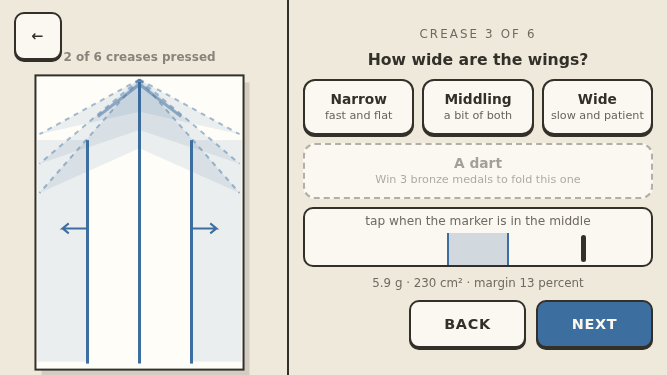
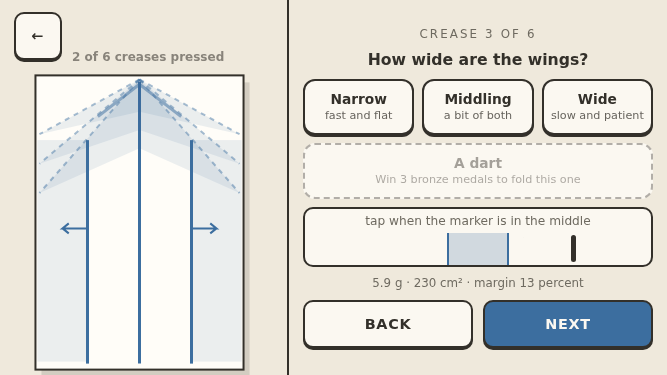
Airworthy review: the landscape row had a 106 px hole its gate could not see
Reviewing 9723b1a2. The one line fix stands, all three of the builder's
mutations re-planted and watched red, fence clean, ten of ten green.

Found by the builder's own third mutation: a 220 px squeeze went red in
LANDSCAPE too, so the portrait reserve was applied there. The override
#shopRow{padding-left:0} sat in the landscape media block above the base
rule; same specificity, later wins, so it was dead and the landscape row
carried a 106 px hole (BACK at 409 while the chips start at 303, visible in
the regenerated p2-workshop-wide shot). The landscape line now lives under
the base rule. New layout assertion, landscape only: BACK's left edge is
the column's content edge (border plus padding) within 1 px. Watched red on
the committed CSS, corrected for the 2 px border-left it first forgot,
green, re-planted red with 106 back on the landscape line, green.

Same shot: the canvas counter's left end sat on the top left arrow in
landscape; it keeps 10 px clear of the button now, portrait unchanged, no
gate, verified by eye on the reshot.

Stamp 20260908b in six places. tools/check.js: ALL GATES PASSED, ten of ten.

Claude-Session: https://claude.ai/code/session_01MzMxmCZuHYbHiFdAM59JNS

diff --git a/satellites/airworthy/index.html b/satellites/airworthy/index.html
@@ -9,9 +9,9 @@
 <meta name="apple-mobile-web-app-capable" content="yes">
 <meta name="apple-mobile-web-app-status-bar-style" content="black-translucent">
 <meta name="apple-mobile-web-app-title" content="AIRWORTHY">
-<link rel="manifest" href="./manifest.webmanifest?v=20260908a">
-<link rel="apple-touch-icon" href="./icon-192.png?v=20260908a">
-<link rel="icon" href="./icon-192.png?v=20260908a">
+<link rel="manifest" href="./manifest.webmanifest?v=20260908b">
+<link rel="apple-touch-icon" href="./icon-192.png?v=20260908b">
+<link rel="icon" href="./icon-192.png?v=20260908b">
 <link rel="canonical" href="https://lucidwinds.com/satellites/airworthy/">
 <style>
 /*  AIRWORTHY
@@ -125,7 +125,6 @@ html,body{margin:0;padding:0;height:100%;background:var(--paper);color:var(--ink
     border-top:0;border-left:2px solid var(--ink);
     justify-content:center;overflow-y:auto;
     padding:calc(10px + var(--safeT)) calc(14px + var(--safeR)) calc(10px + var(--safeB)) 14px}
-  #shopRow{padding-left:0}
 }
 #shopStep{font-size:.74rem;letter-spacing:.18em;color:var(--pencil);text-transform:uppercase;
   text-align:center}
@@ -160,9 +159,13 @@ html,body{margin:0;padding:0;height:100%;background:var(--paper);color:var(--ink
    BACK sat in it from the day the workshop was built and the layout gate read
    green over it because it measured the row after the screen had changed. In
    landscape the chrome is a column down the right side and that corner is the
-   paper's, so the reserve comes off there. */
+   paper's, so the reserve comes off there.
+   ⛔ The landscape line lives BELOW the base rule on purpose: it once sat in the
+   landscape block above, same specificity, earlier in the file, and the base
+   rule won, so the landscape row carried the reserve as a 106 px hole. */
 #shopRow{display:flex;gap:10px;width:100%;max-width:360px;padding-left:106px;box-sizing:border-box}
 #shopRow > *{flex:1 1 0;min-width:0;white-space:nowrap}
+@media (orientation:landscape){#shopRow{padding-left:0}}
 #shopSpec{font-size:.74rem;color:var(--pencil);text-align:center;line-height:1.5}
 
 /* the hangar */
@@ -258,7 +261,7 @@ body.listing #toast{top:calc(72px + var(--safeT));bottom:auto}
 #testPanel.on{display:block}
 @media (prefers-reduced-motion:reduce){*{transition-duration:1ms!important}}
 </style>
-<script src="/music-unlocks.js?v=20260908a" defer></script>
+<script src="/music-unlocks.js?v=20260908b" defer></script>
 </head>
 <body>
 <h1 style="position:absolute;width:1px;height:1px;margin:-1px;padding:0;overflow:hidden;clip:rect(0 0 0 0);clip-path:inset(50%);white-space:nowrap;border:0">AIRWORTHY</h1>
@@ -2944,8 +2947,13 @@ function drawSheet(ctx) {
   ctx.font = '600 12px ui-rounded, system-ui, sans-serif';
   ctx.textAlign = 'center';
   /* ⛔ centred over the PAPER, not over the window: in landscape the window's
-     middle is behind the chrome column and the label is cut in half. */
-  ctx.fillText(done + ' of ' + FOLDS.length + ' creases pressed', x0 + sw / 2, y0 - 14);
+     middle is behind the chrome column and the label is cut in half. And in
+     landscape the paper is narrow enough that the label's left end landed on
+     the top left arrow (seen in p2-workshop-wide), so it keeps 10 px clear of
+     the button's right edge; in portrait the paper is wide and this never bites. */
+  var lbl = done + ' of ' + FOLDS.length + ' creases pressed';
+  var lx = Math.max(x0 + sw / 2, 14 + 48 + 10 + ctx.measureText(lbl).width / 2);
+  ctx.fillText(lbl, lx, y0 - 14);
   ctx.textAlign = 'left';
 }
 
@@ -3758,7 +3766,7 @@ function toTunnel() {
 }
 
 /* ========================= 17. THE FIELD ========================= */
-var STAMP = '20260908a';
+var STAMP = '20260908b';
 var G = {
   screen: 'title', spec: null, res: null, live: null, liveT: 0, flying: false,
   trail: [], ghost: null, best: null, lastClass: null, throws: 0,

diff --git a/satellites/airworthy/sw.js b/satellites/airworthy/sw.js
@@ -12,7 +12,7 @@
    Bump SHELL_VERSION on every deploy, AND the ?v= on the registration in
    index.html in lockstep — this host edge-pins bare sw.js URLs for 7 days. */
 
-const SHELL_VERSION = "airworthy-shell-20260908a";
+const SHELL_VERSION = "airworthy-shell-20260908b";
 const SFX_CACHE     = "airworthy-unused-v1"; // no recorded audio: every sound is synthesised
 const NAV_TIMEOUT_MS = 8000;
 

diff --git a/plans/airworthy/HANDOFF-AIRWORTHY.md b/plans/airworthy/HANDOFF-AIRWORTHY.md
@@ -11,6 +11,44 @@ this file wins; every difference is in section 3 with its reason.
 
 ## SESSION STATE (the builder updates this at the end of every session; the morning reader starts here)
 
+- 2026-09-08 02:40 UTC, Fable's reviewer (of the 01:30 build below): **PASS WITH ONE FIX, stamp `20260908b`** in
+  all six places (four head `?v=`, `var STAMP`, `sw.js`). The builder's fix does what his 18, 19 and 22 asked:
+  `shopStartSweep()` at the end of shopStart is the one line, Steady Hands and the link import are untouched,
+  and the commit touched nothing outside `satellites/airworthy/` and this plan. **His mutations re-planted by
+  me and watched red:** (1) the line taken out of shopStart, `test/fold.mjs` 11 red of 18 ("NOT sweeping",
+  marker 0, 0, 0 px, "nothing recorded", NEXT stuck on crease 1, hangar 0, and the TO THE GYM read now says
+  "holding null, shelf has nothing on the shelf" instead of dying), `test/play.mjs` 1 red; (2) `#shopRow`
+  padding-left 106 to 0, `test/layout.mjs` 3 of 5 red, btnShopBack at 14, 14, 26; (3) padding-left 106 to 220,
+  5 of 5 red on the row words. All restored, all green.
+  **What the builder missed, found by mutation (3):** under the 220 px squeeze the two LANDSCAPE sizes went
+  red as well ("667x375 BACK 63 in 56"), so the reserve was applied in landscape. The override
+  `#shopRow{padding-left:0}` sat in the landscape media block at line 128, ABOVE the base rule at 164; same
+  specificity, later wins, so it never applied and the landscape row carried a 106 px hole. The builder's own
+  regenerated `p2-workshop-wide.png` showed it (BACK at 409 while the chips start at 303) and the entry below
+  says "0 in landscape", which the file did not do. The gate was green over it because it only asks whether
+  the words fit and 118 px fits BACK. **Fix:** the dead line is gone and
+  `@media (orientation:landscape){#shopRow{padding-left:0}}` sits under the base rule, with a comment saying why
+  it lives there. **New assertion** in `test/layout.mjs`, landscape sizes only: BACK's left edge equals the
+  shop column's content edge (border plus padding) within 1 px, read off the live rectangles. Watched red
+  on the committed CSS (BACK at 409, edge at 301, and 657 against 549), then my first draft was 2 px off
+  because I forgot the column's 2 px border-left (BACK 303 against 301 with the fix in), corrected, green
+  (303 against 303, 551 against 551), then re-planted by putting 106 back on the landscape line: red again
+  (409, 657), restored, green. **Second small fix from the same shot:** "2 of 6 creases pressed" is canvas
+  text centred over the paper, and in landscape the paper is narrow enough that the label's left end sat on
+  the top left arrow; it now keeps 10 px clear of the button's right edge (`Math.max` on the centre, portrait
+  unchanged). No gate for a canvas label, verified by eye only: reshot `p2-workshop-wide.png`, opened, label
+  starts at 72 with the arrow ending at 62. `p5-crease1-412.png` and `p5-crease1-375.png` reshot and opened,
+  unchanged as expected (BACK at 133 and 120, clear of the corner; marker at 0.37 of the bar, nothing set it).
+  `node tools/check.js` on the final file under the lock: **ALL GATES PASSED, ten of ten** (sim, lint, throw,
+  fold, tunnel, challenge, sound, audio, play, layout). Copy laws on the diff: no dashes, no exclamation
+  points, no plural studio, the only new player text is cm² on a .74 rem line.
+  **Still seen, left as calls (agreeing with the builder):** the paper's share of a tall screen; the double
+  counter ("0 of 6 creases pressed" on the canvas, "CREASE 1 OF 6" on the panel); the Locked chip's subtitle
+  wrapping to two lines; the row's BACK duplicating the top left arrow; in landscape the row's two buttons
+  are now 165 px each under three 100 px chips, heavier than the chips. The chip's live seat in the workshop
+  is still unobserved on a phone. **Not deployed:** live is 20260907c; Fable deploys and should grep the served
+  index.html for `THE FIRST CREASE SWEEPS TOO` and `20260908b`.
+
 - 2026-09-08 01:30 UTC, Fable's builder: **DONE, THE FIRST CREASE SWEEPS. His 18, 19 and 22 are closed by one
   line.** Stamp `20260908a` in all six places (four `?v=` in the head, `var STAMP`, `sw.js` SHELL_VERSION).
   `node tools/check.js`: **ALL GATES PASSED, ten of ten** (sim 189 assertions, lint, throw, fold, tunnel, challenge, sound, audio, play, layout), run as `timeout 900 flock -w 1800 /tmp/sws-gate.lock node tools/check.js`.
